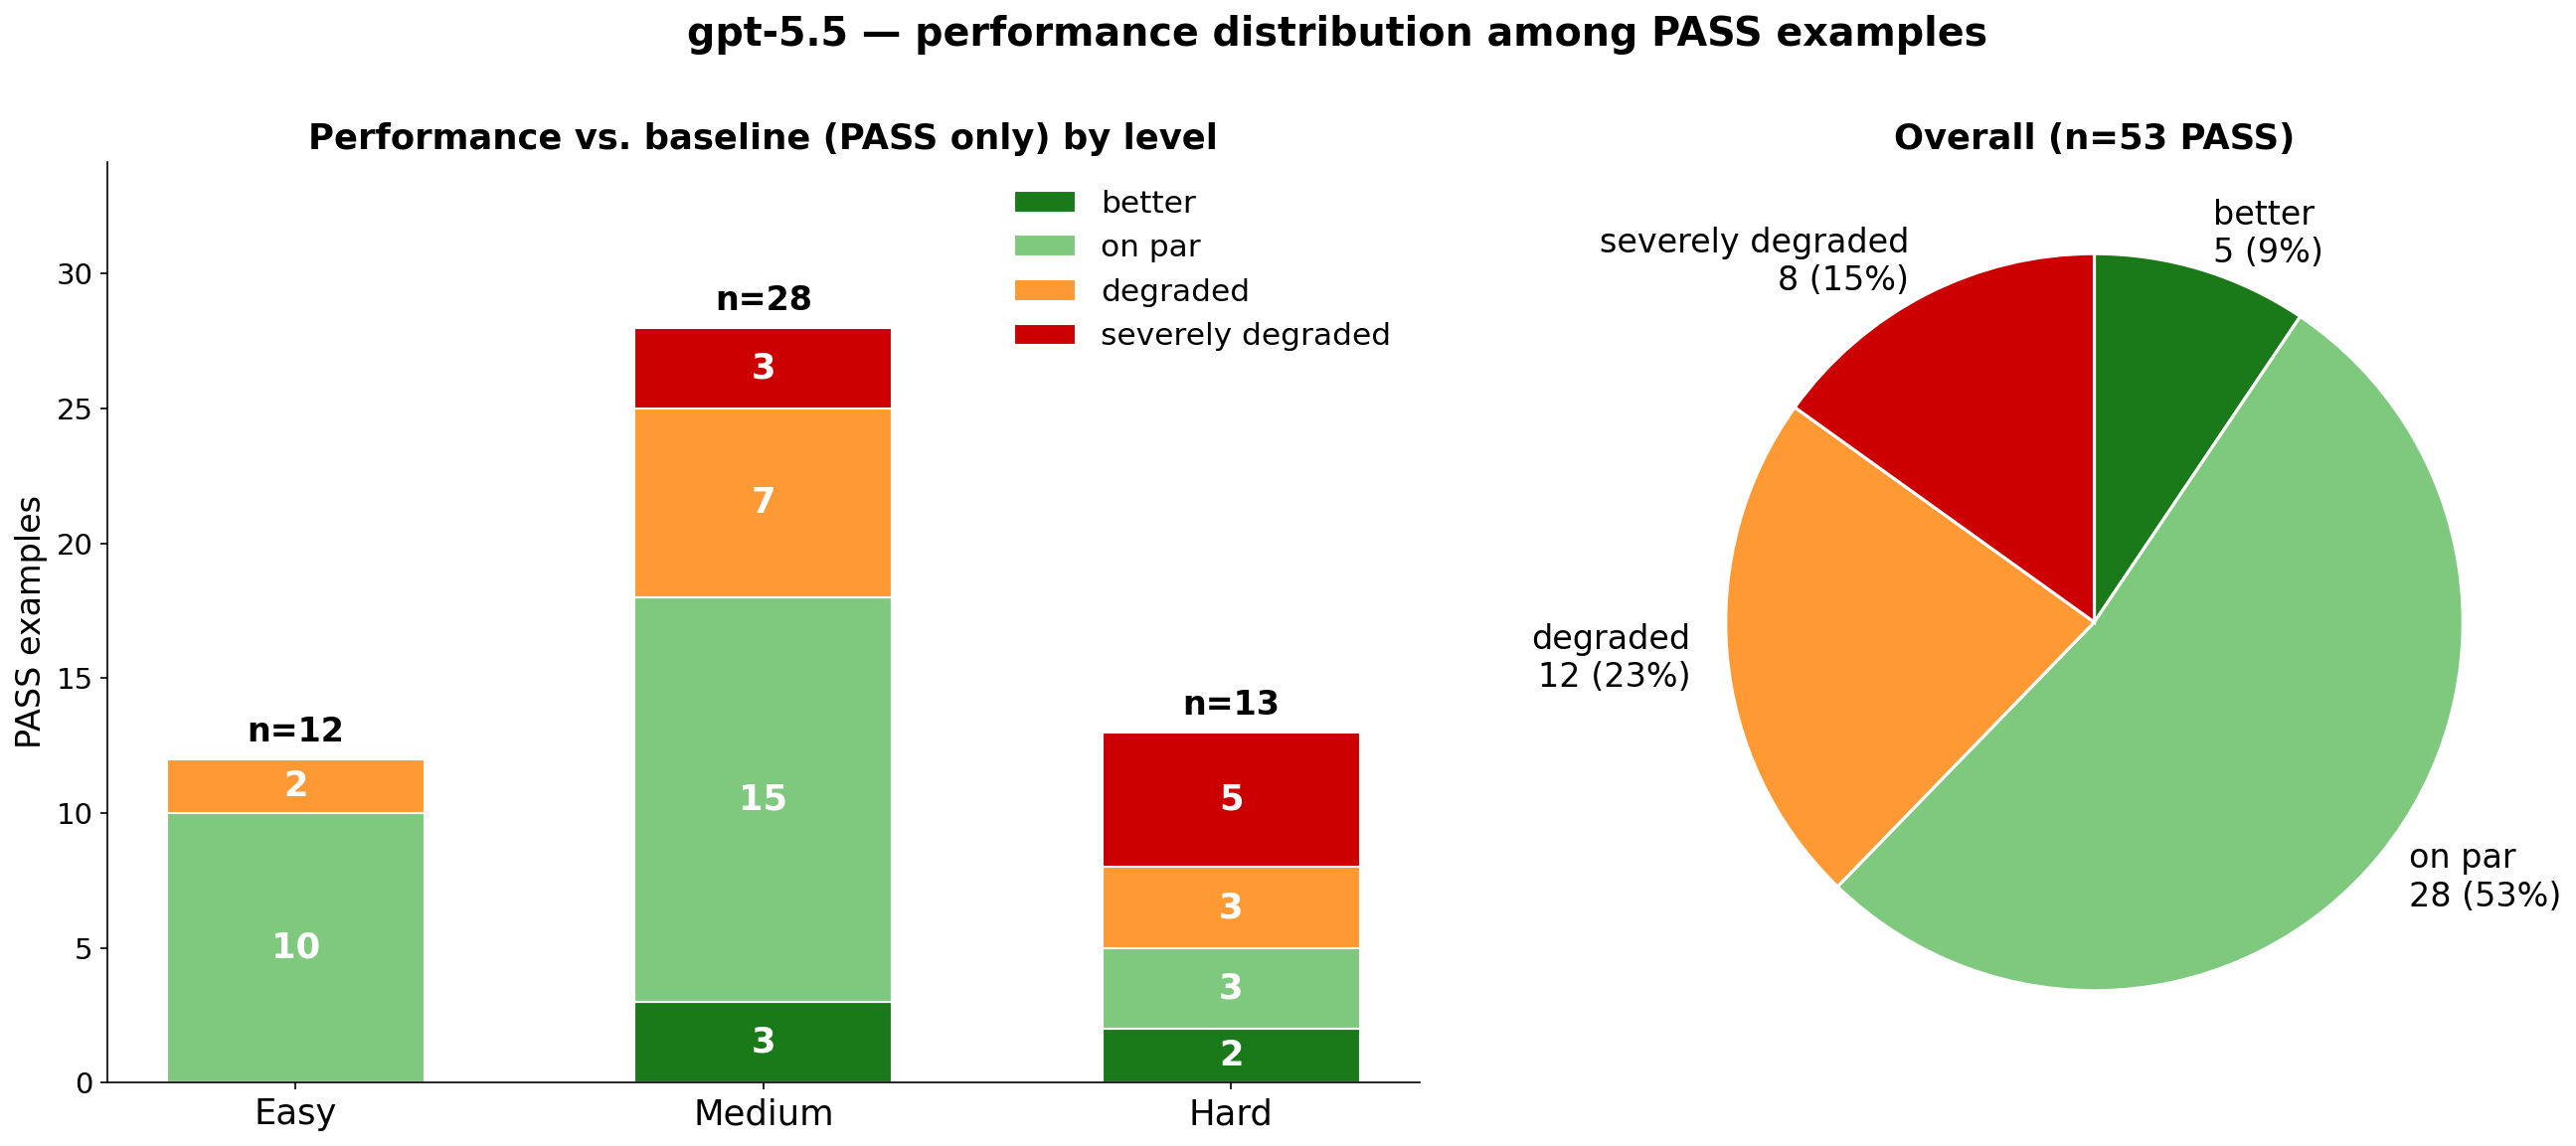
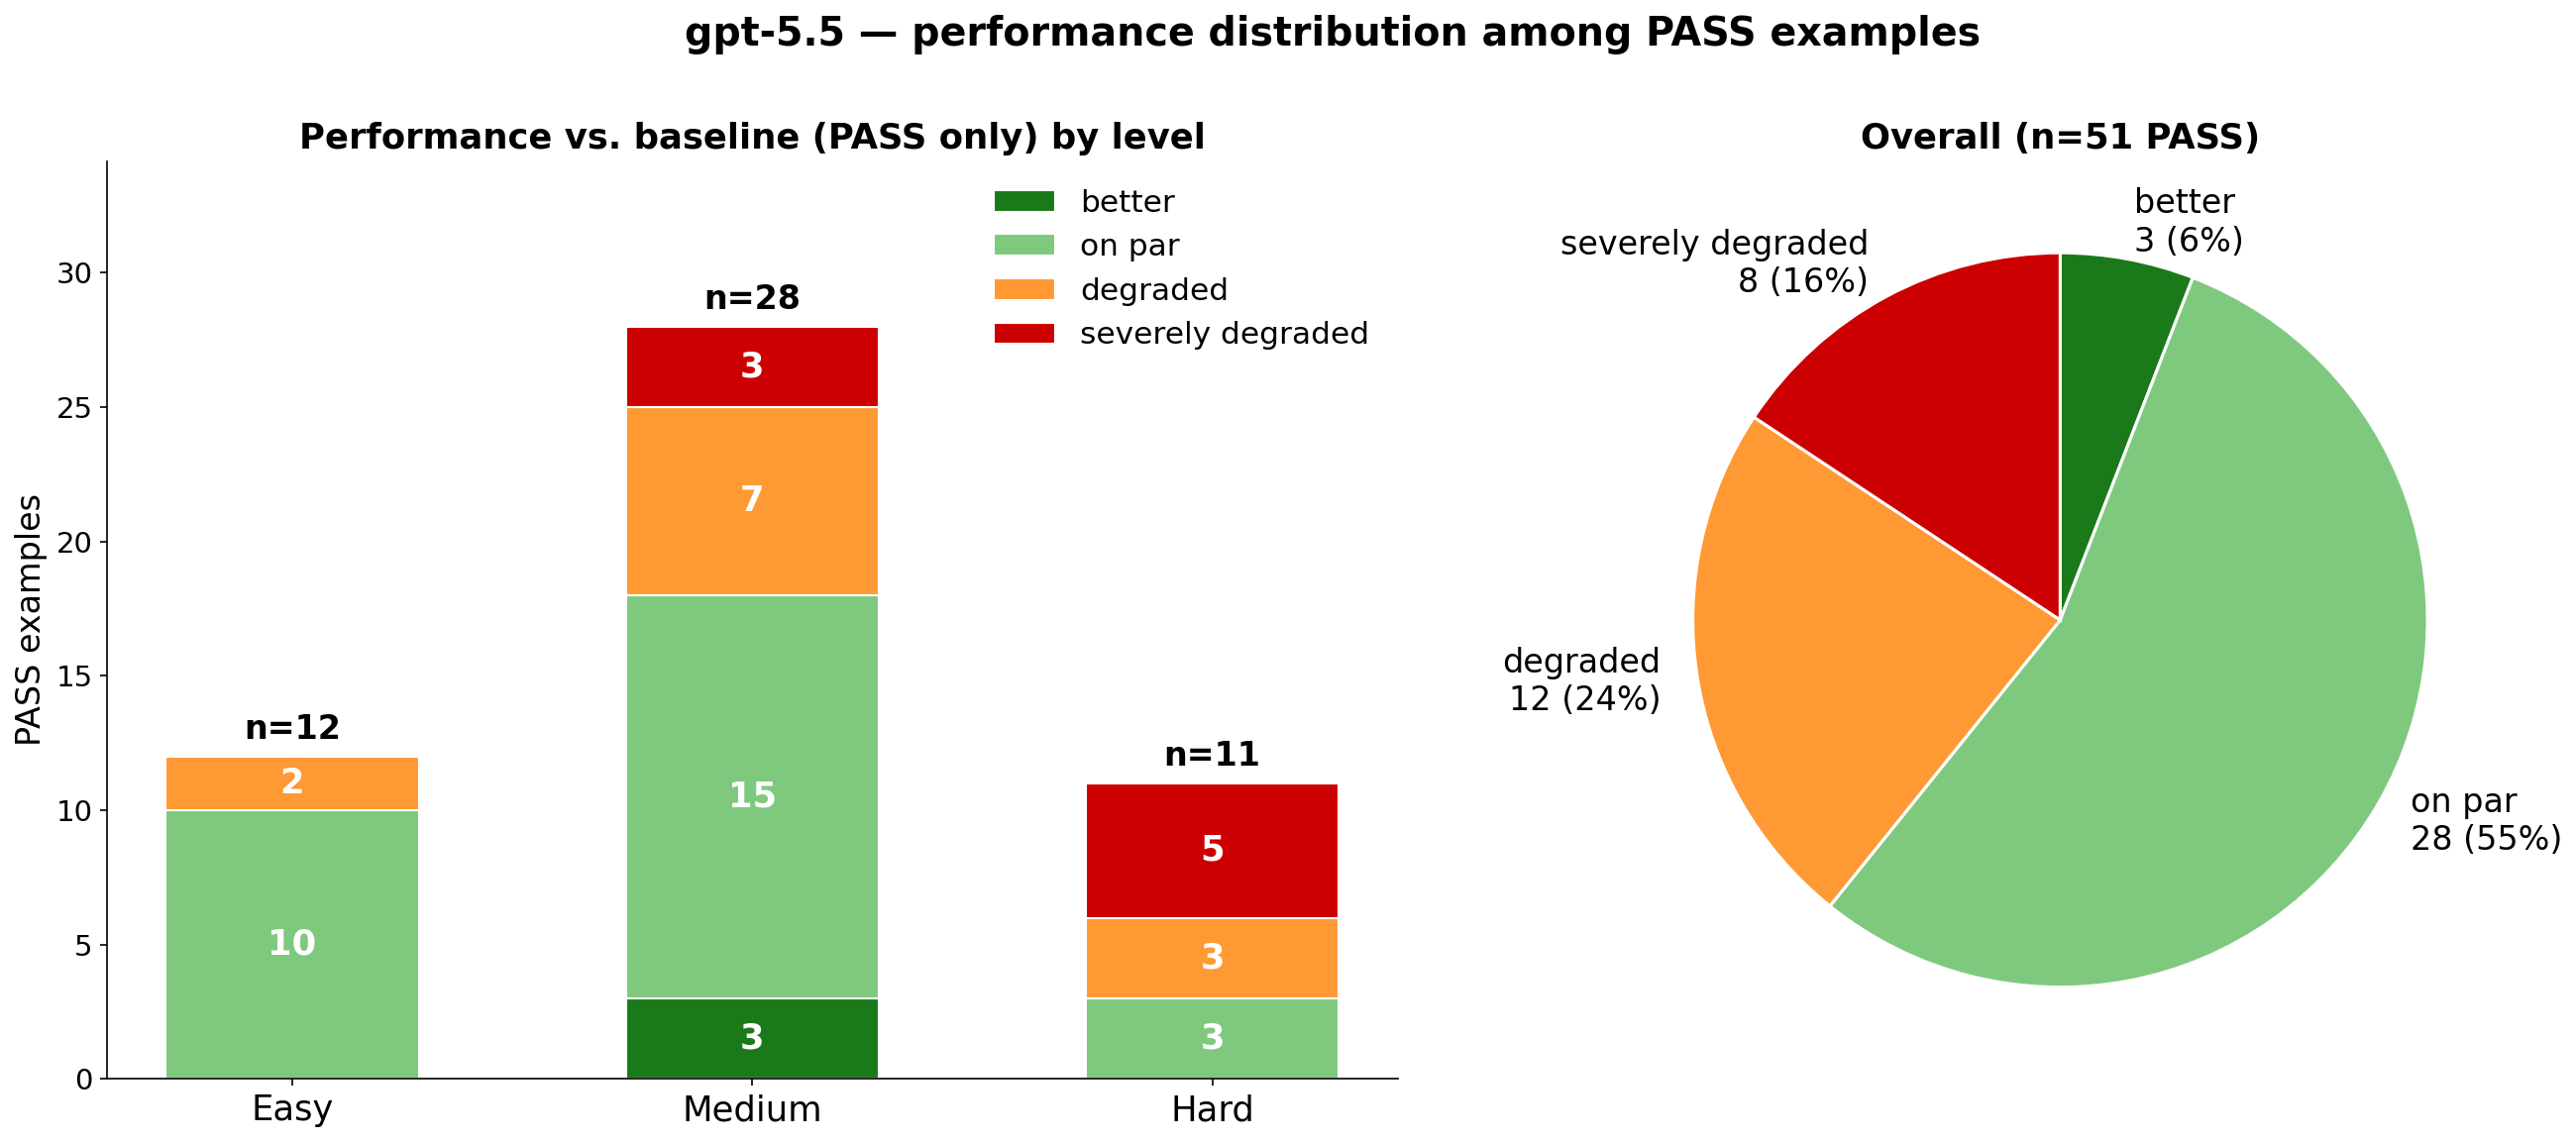
update details

diff --git a/README.md b/README.md
@@ -5,7 +5,7 @@
   </p>
 
   <p align="center">
-        <a href="https://uccl-project.github.io/posts/llm-gpu-comm-kernels/"><b>Blog</b></a> |
+        <a href="https://uccl-project.github.io/posts/commbench/"><b>Blog</b></a> |
         <a href="https://join.slack.com/t/uccl-dev/shared_invite/zt-3xbjdb0d0-tvDeUhGxtYxvGqsGKQ31Uw"><b>Join Slack</b></a> |
         <a href="https://x.com/uccl_proj"><b>Twitter/X</b></a> |
         <a href="#leaderboard"><b>Leaderboard</b></a> |
@@ -56,17 +56,17 @@ _Today's frontier LLMs write excellent single-device code yet consistently fail 
 
 ## Leaderboard
 
-> Sorted by **Pass×GM** ⭐ — pass rate scaled by geometric-mean code quality on passing examples. See the [blog post](https://uccl-project.github.io/posts/llm-gpu-comm-kernels/) for full metric definitions and case studies.
+> Sorted by **Pass×GM** ⭐ — pass rate scaled by geometric-mean code quality on passing examples. See the [blog post](https://uccl-project.github.io/posts/commbench/) for full metric definitions and case studies.
 
-| Rank | Model | Price | Pass×GM | Pass Rate | PASS+Good | GM‑Speedup |
-|:----:|:------|:-----:|:-------:|:---------:|:---------:|:----------:|
-| 🥇 | **gpt-5.5** | $1.91 | **0.539** | 59.4% | 32.7% | 0.908 |
-| 🥈 | **gemini-3.1-pro-preview** | $0.26 | 0.305 | 36.6% | 25.7% | 0.832 |
-| 🥉 | **claude-opus-4-7** | $0.21 | 0.282 | 33.7% | 20.8% | 0.836 |
-| 4️⃣ | **glm-5.1** | $0.63 | 0.281 | 29.7% | 17.8% | 0.947 |
-| 5️⃣ | **kimi-k2.6** | $0.10 | 0.275 | 30.7% | 18.8% | 0.895 |
-| 6️⃣ | **qwen3.7-max** | $0.03 | 0.269 | 26.7% | 15.8% | 1.008 |
-| 7️⃣ | **deepseek-v4-pro** | $0.02 | 0.197 | 19.8% | 12.9% | 0.995 |
+| Rank | Model | Pass×GM | Pass Rate | PASS+Good | GM‑Speedup | Open Source | Price |
+|:----:|:------|:-------:|:---------:|:---------:|:----------:|:-----------:|:-----:|
+| 🥇 | **gpt-5.5** | **0.467** | 57.4% | 30.7% | 0.813 | ❌ | $1.91 |
+| 🥈 | **gemini-3.1-pro-preview** | 0.305 | 36.6% | 25.7% | 0.832 | ❌ | $0.26 |
+| 🥉 | **claude-opus-4-7** | 0.282 | 33.7% | 20.8% | 0.836 | ❌ | $0.21 |
+| 4️⃣ | **glm-5.1** | 0.281 | 29.7% | 17.8% | 0.947 | ✅ | $0.63 |
+| 5️⃣ | **kimi-k2.6** | 0.275 | 30.7% | 18.8% | 0.895 | ✅ | $0.10 |
+| 6️⃣ | **qwen3.7-max** | 0.269 | 26.7% | 15.8% | 1.008 | ❌ | $0.03 |
+| 7️⃣ | **deepseek-v4-pro** | 0.197 | 19.8% | 12.9% | 0.995 | ✅ | $0.02 |
 
 ### Metrics
 
@@ -80,7 +80,7 @@ _Today's frontier LLMs write excellent single-device code yet consistently fail 
 
 ### Top vs. Bottom Model
 
-A detailed comparison of the highest- and lowest-scoring models, gpt-5.5 (Pass×GM = 0.539) and deepseek-v4-pro (Pass×GM = 0.197).
+A detailed comparison of the highest- and lowest-scoring models, gpt-5.5 (Pass×GM = 0.467) and deepseek-v4-pro (Pass×GM = 0.197).
 
 #### Difficulty Breakdown
 

diff --git a/datasets/readme.md b/datasets/readme.md
@@ -22,7 +22,7 @@ Details for each step follow below.
 
 ### Standard Example
 
-[llm-for-gpu-comm/datasets/example001_gpu_comm_single_process/nv](./example001_gpu_comm_single_process/nv)
+[CommBench/datasets/example001_gpu_comm_single_process/nv](./example001_gpu_comm_single_process/nv)
 
 ---
 
@@ -220,7 +220,7 @@ def build_and_run(...)
 Example:
 
 ```bash
-cd llm-for-gpu-comm/datasets/example001_gpu_comm_single_process/nv
+cd CommBench/datasets/example001_gpu_comm_single_process/nv
 python build_and_run.py --source ref_gpu_p2p_comm.cpp
 ```
 
@@ -395,7 +395,7 @@ Required Command-Line Arguments, The script must support the following arguments
 * `--compare`
   Enables comparison mode by building and running a reference and a generated source file.
 
-* You may add additional optional arguments if needed. However, the required arguments listed above must be fully implemented as specified, and **must not be removed or renamed**. You can refer to `llm-for-gpu-comm/datasets/example001_gpu_comm_single_process/nv/build_and_run.py` as an example implementation.
+* You may add additional optional arguments if needed. However, the required arguments listed above must be fully implemented as specified, and **must not be removed or renamed**. You can refer to `CommBench/datasets/example001_gpu_comm_single_process/nv/build_and_run.py` as an example implementation.
 
 ---
 # Empty File Requirements